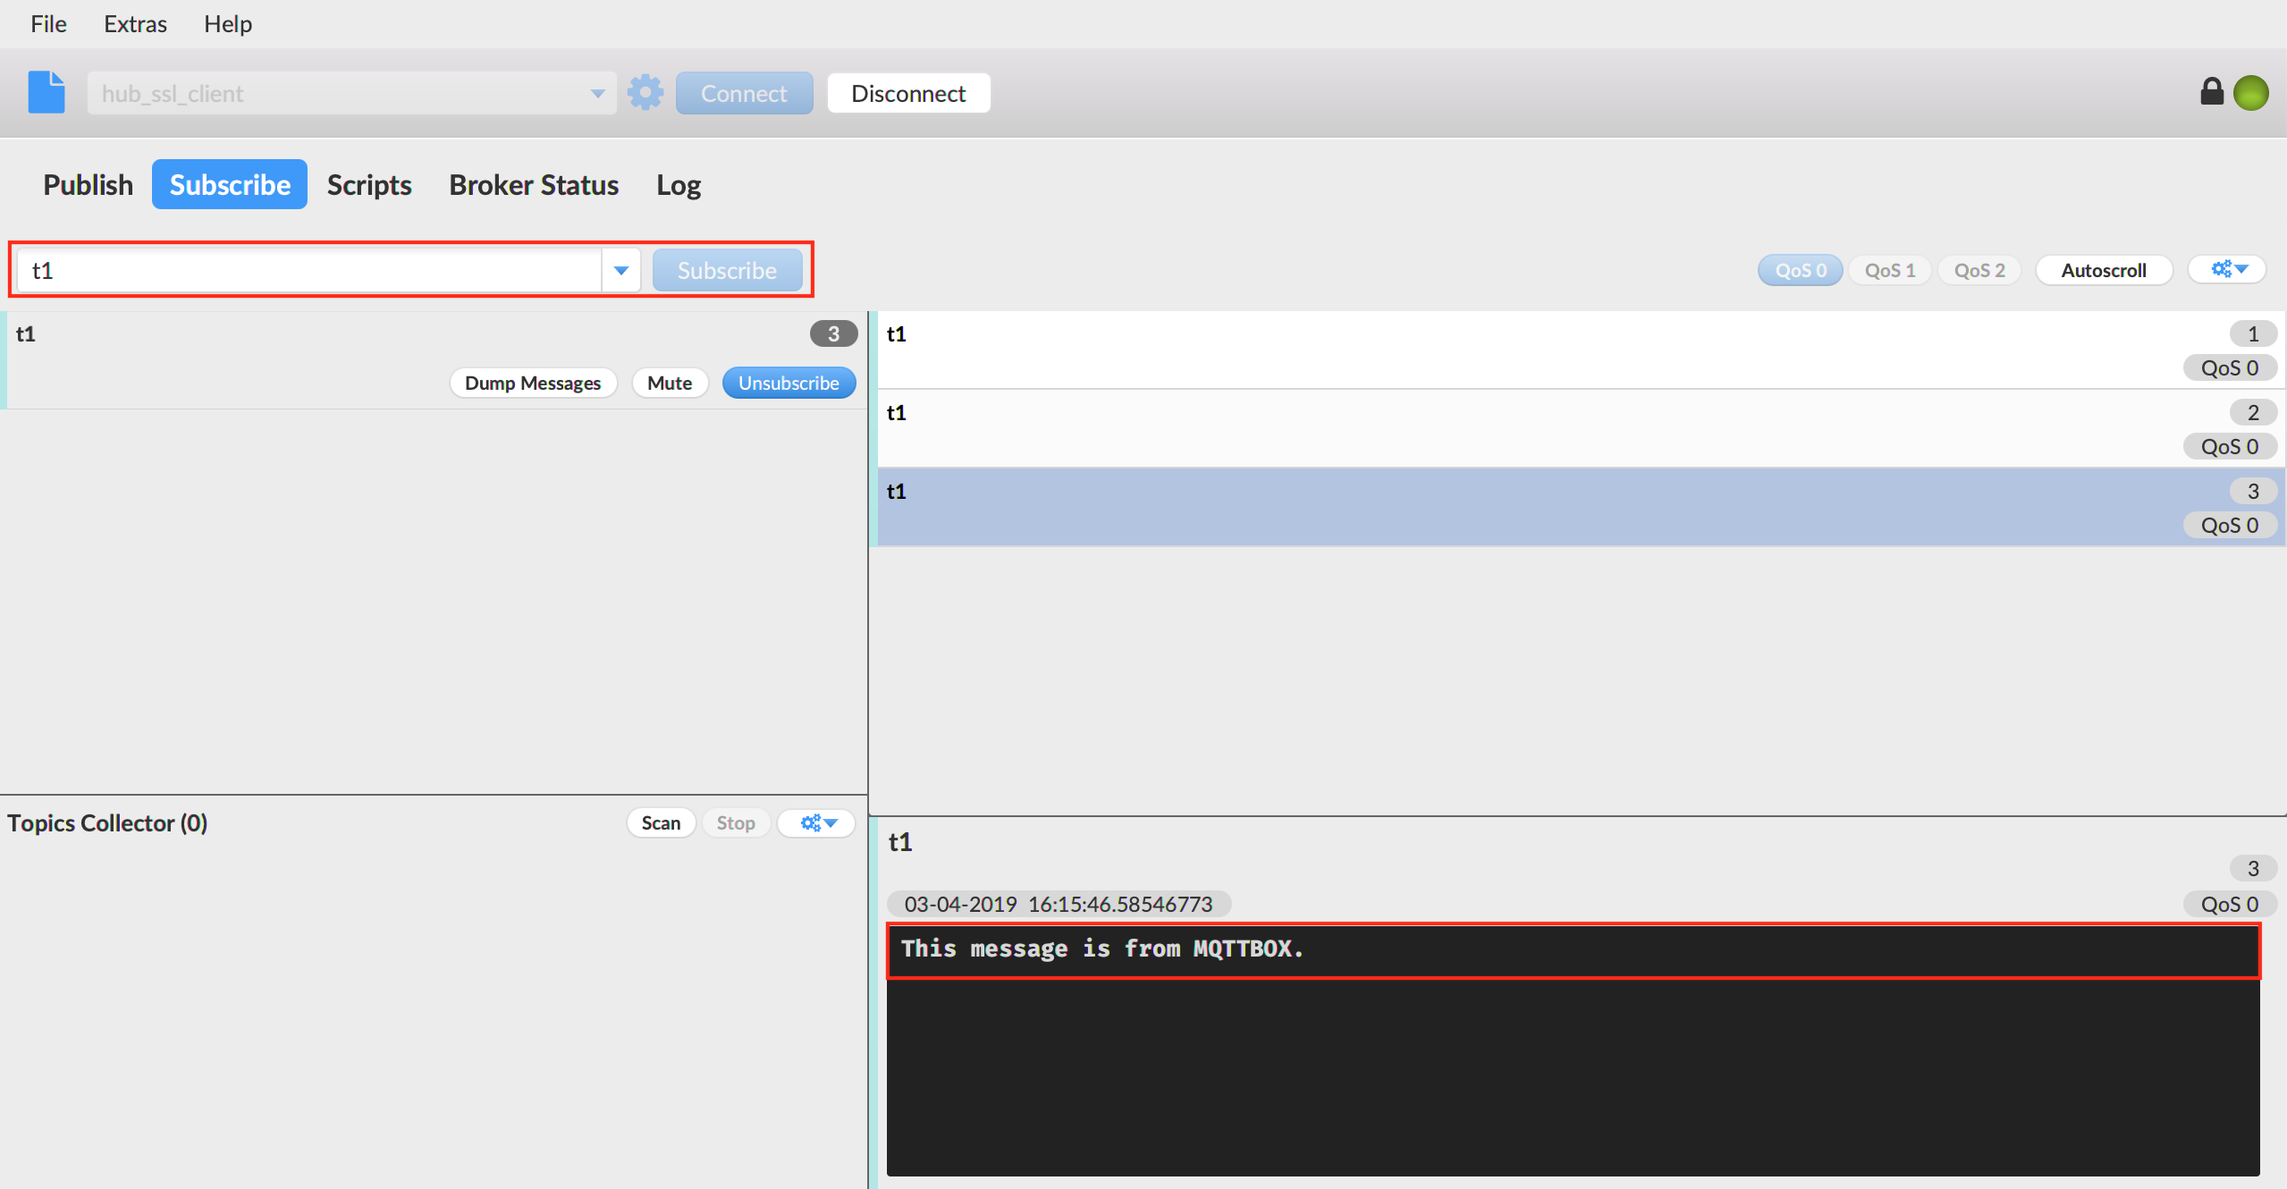
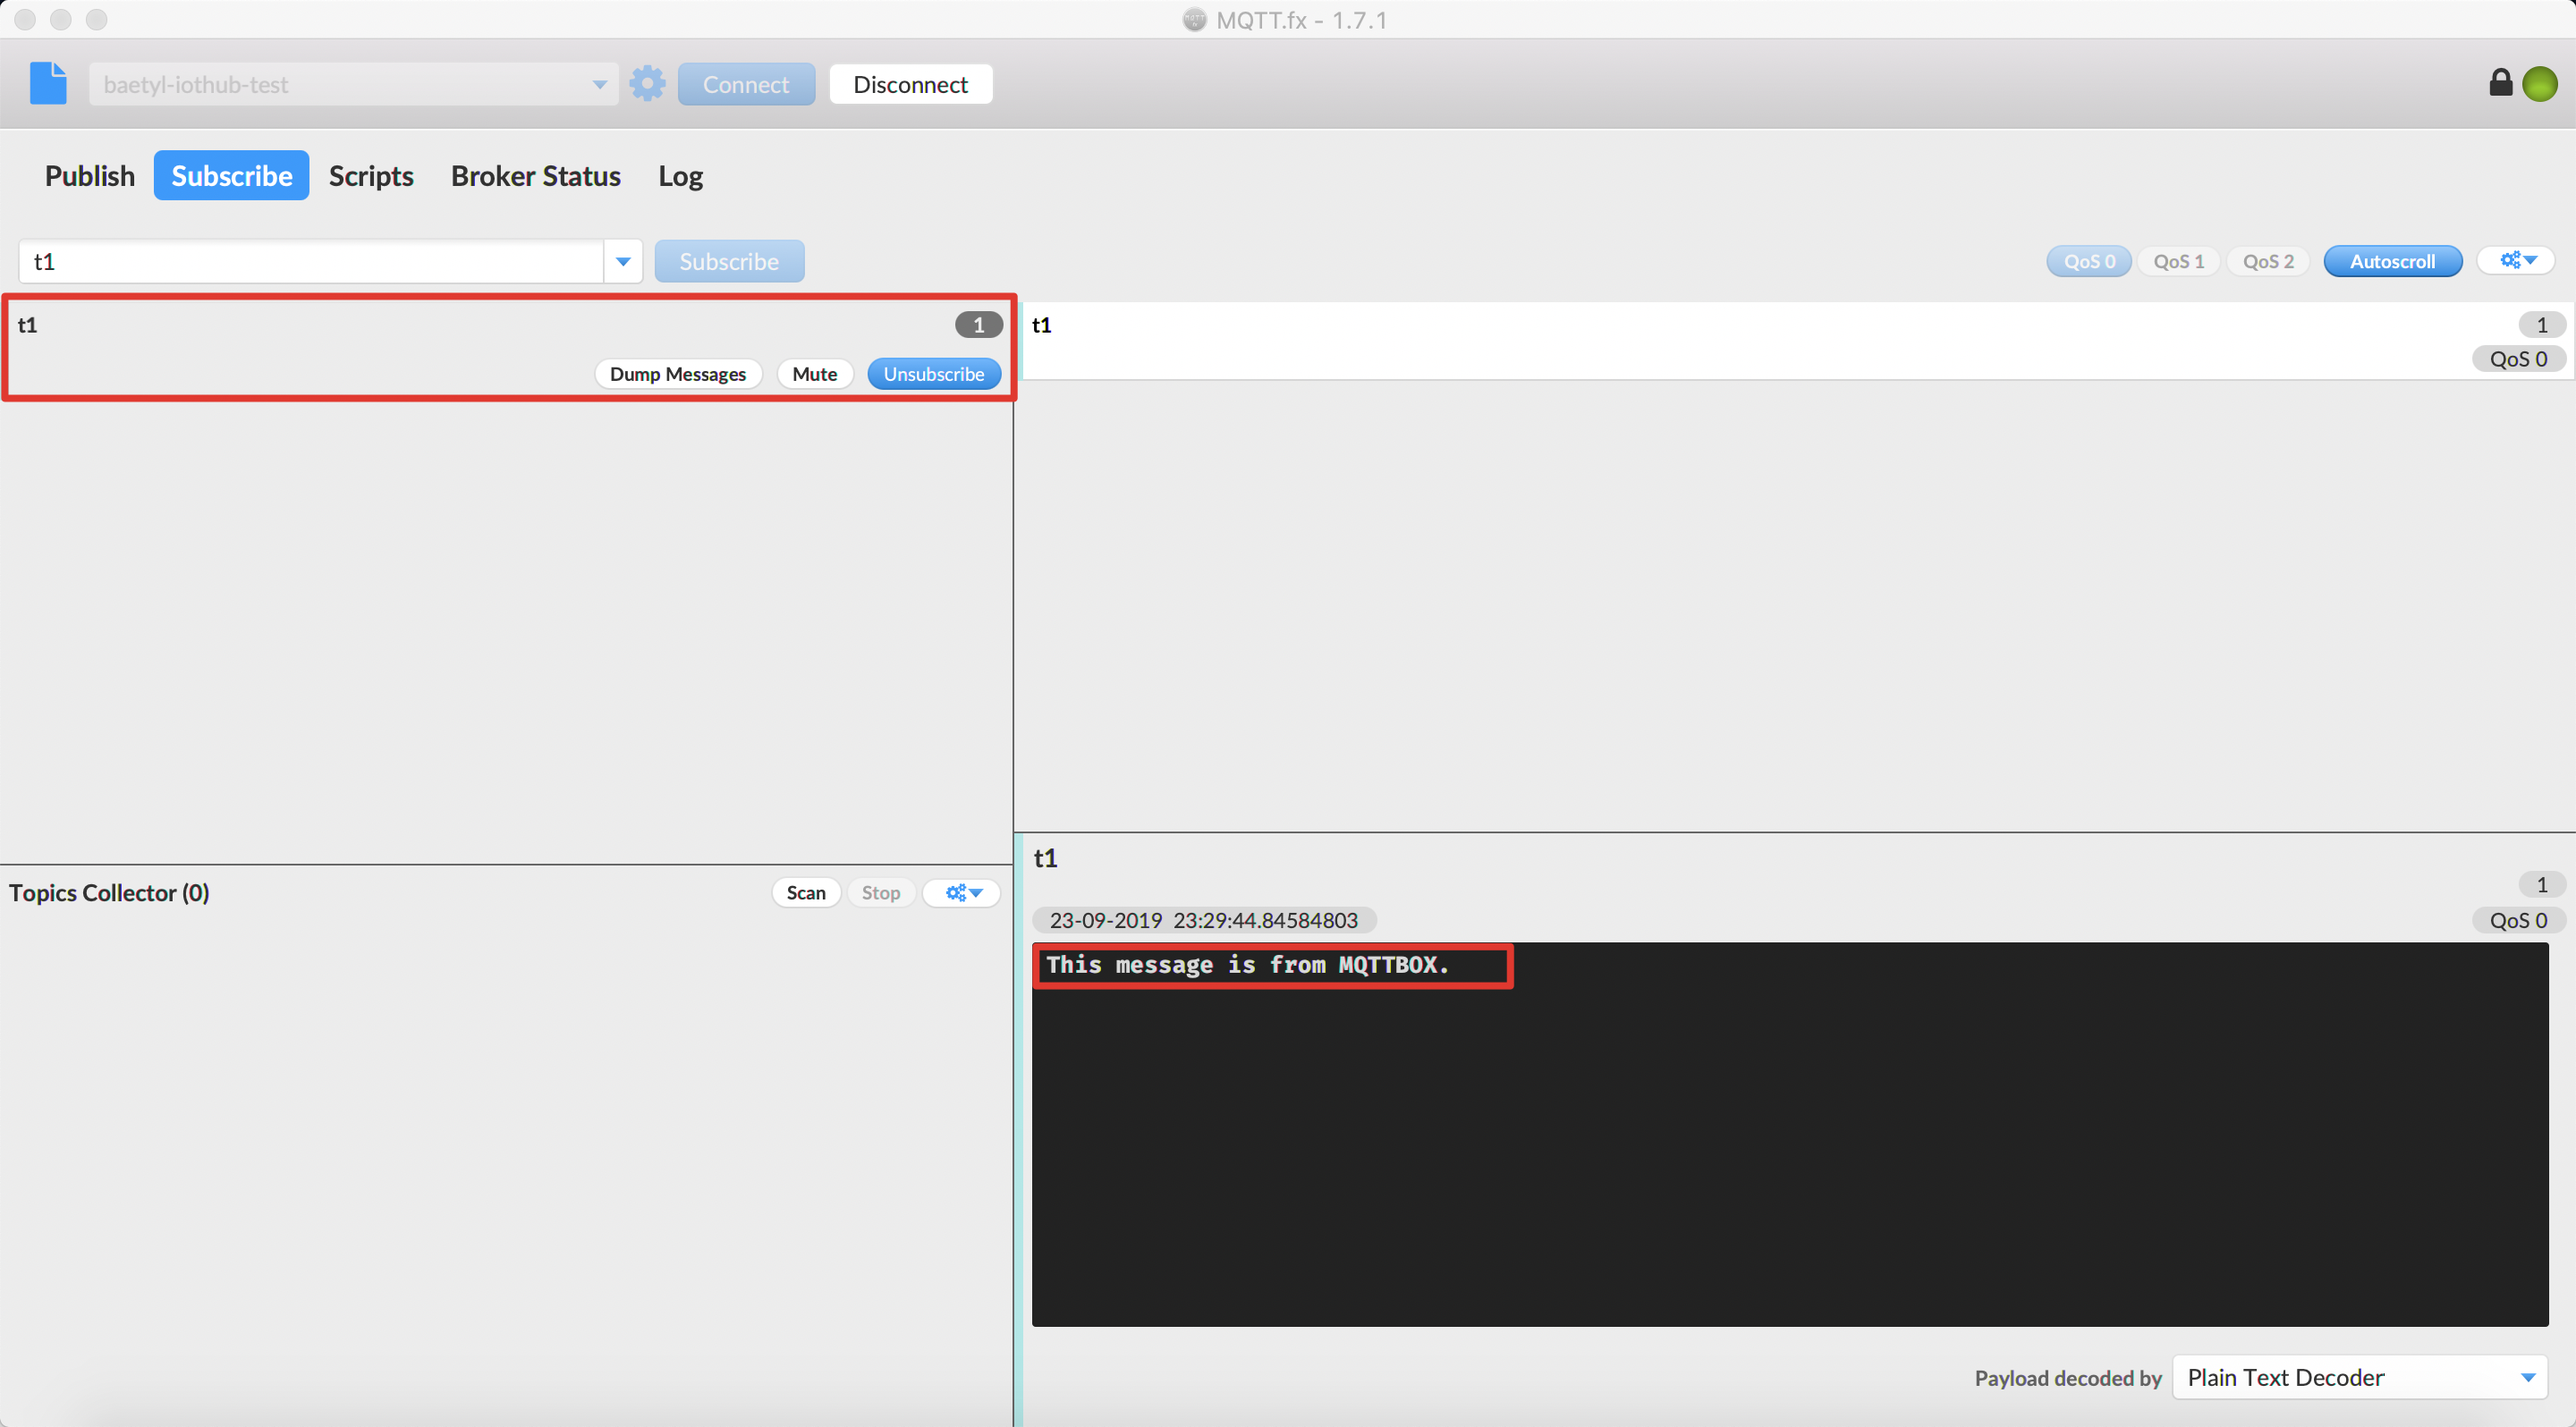
update remote guide document

diff --git a/docs/guides/Message-synchronize-with-iothub-through-remote-module.md b/docs/guides/Message-synchronize-with-iothub-through-remote-module.md
@@ -4,25 +4,24 @@
 
 - 本文测试所用设备系统为 Ubuntu18.04
 - 本文测试前先安装 Baetyl，并导入默认配置包，可参考 [快速安装 Baetyl](../install/Quick-Install.md)
-- 模拟 MQTT Client 行为的客户端为 [MQTTBOX](../Resources.md) 和 [MQTT.fx](../Resources.md)
+- 模拟 MQTT client 向百度云 IoTHub 订阅消息的客户端为 [MQTT.fx](https://docs.baetyl.io/zh_CN/latest/Resources.html#mqtt-fx)
+- 模拟 MQTT client 向本地 Hub 服务发送消息的客户端为 [MQTTBOX](https://docs.baetyl.io/zh_CN/latest/Resources.html#mqttbox)
 - 本文所用的 Hub 模块镜像和 Remote 模块镜像为 Baetyl 云端管理套件中发布的官方镜像：`hub.baidubce.com/baetyl/baetyl-hub:latest`、`hub.baidubce.com/baetyl/baetyl-remote-mqtt:latest`
-- 您也可以通过 Baetyl 源码自行编译所需的 Hub 模块镜像和 Remote 模块镜像，具体请查看 [如何从源码构建镜像](../install/Build-from-Source.md)
-- 远程 Hub 接入平台选用 [Baidu IoT Hub](https://cloud.baidu.com/product/iot.html)
+- 您也可以通过 Baetyl 源码自行编译所需的 Hub 模块镜像和 Remote 模块镜像，具体请查看 [源码编译 Baetyl](../install/Build-from-Source.md)
+- 远程 Hub 接入平台选用 [Baidu IoTHub](https://cloud.baidu.com/product/iot.html)
 
-_**提示**：Darwin 系统可以通过源码安装 Baetyl，可参考 [源码编译 Baetyl](../install/Build-from-Source.md)。_
-
-Remote 远程服务模块是为了满足物联网场景下另外一种用户需求而研发，能够实现本地 Hub 与远程 Hub 服务（如[Baidu IoT Hub](https://cloud.baidu.com/product/iot.html)等）的数据同步。即通过 Remote 远程服务模块我们既可以从远程 Hub 订阅消息到本地 Hub，也可以将本地 Hub 的消息发送给远程 Hub，完整的配置可参考 [Remote 模块配置](./Config-interpretation.md)。
+Remote 远程服务模块是为了满足物联网场景下另外一种用户需求而研发，能够实现本地 Hub 与远程 Hub 服务（如[Baidu IoTHub](https://cloud.baidu.com/product/iot.html)等）的数据同步。即通过 Remote 远程服务模块我们既可以从远程 Hub 订阅消息到本地 Hub，也可以将本地 Hub 的消息发送给远程 Hub，完整的配置可参考 [Remote 模块配置](./Config-interpretation.md)。
 
 ## 操作流程
 
-- Step 1：依据 Baidu IoT Hub 的操作规章，在 Baidu IoT Hub 创建测试所用的 endpoint、user、principal（身份）、policy（主题权限策略）等信息；
-- Step 2：依据步骤 `Step 1` 中创建的连接信息，选择 MQTT.fx 作为测试用 MQTT 客户端，配置相关连接信息，并将之与 Baidu IoT Hub 建立连接，并订阅既定主题；
+- Step 1：依据 Baidu IoTHub 的操作规章，在 Baidu IoTHub 创建测试所用的 endpoint、user、principal（身份）、policy（主题权限策略）等信息；
+- Step 2：依据步骤 `Step 1` 中创建的连接信息，选择 MQTT.fx 作为测试用 MQTT 客户端，配置相关连接信息，并将之与 Baidu IoTHub 建立连接，并订阅既定主题；
   - 若成功建立连接，则继续下一步操作；
-  - 若未成功建立连接，则重复上述步骤，直至看到 MQTT.fx 与 Baidu IoT Hub 成功[建立连接](https://cloud.baidu.com/doc/IOT/GettingStarted.html#.E6.95.B0.E6.8D.AE.E5.9E.8B.E9.A1.B9.E7.9B.AE)。
-- Step 3：打开终端，执行 `sudo systemctl start baetyl` 以容器模式启动 Baetyl 可执行程序，然后执行 `sudo systemctl status baetyl` 来查看 Baetyl 是否正常运行，并观察 Hub 模块、Remote 模块启动状态；
+  - 若未成功建立连接，则重复上述步骤，直至看到 MQTT.fx 与 Baidu IoTHub 成功[建立连接](https://cloud.baidu.com/doc/IOT/s/Sjwvy72aq)。
+- Step 3：打开终端，执行 `sudo systemctl start baetyl` 以容器模式启动 Baetyl 可执行程序（要求 Baetyl 已事先在设备上部署完毕，相关内容可参考 [快速安装 Baetyl](../install/Quick-Install.md)），然后执行 `sudo systemctl status baetyl` 来查看 Baetyl 是否正常运行，并观察 Hub 模块、Remote 模块启动状态；
   - 若 Hub、Remote 模块成功启动，则继续下一步操作；
   - 若 Hub、Remote 模块未成功启动，则重复 `Step 3`，直至看到 Hub、Remote 模块成功启动。
-- Step 4：选择 MQTTBOX 作为测试用 MQTT 客户端，与 Hub 模块[建立连接](./Device-connect-to-hub-module.md)，并订阅既定主题；
+- Step 4：选择 MQTTBOX 作为测试用 MQTT 客户端，与 Hub 模块[建立连接](Device-connect-to-hub-module.md)，并订阅既定主题；
   - 若成功与 Hub 模块建立连接，则继续下一步操作；
   - 若与 Hub 建立连接失败，则重复 `Step 4` 操作，直至 MQTTBOX 与本地 Hub 模块成功建立连接。
 - Step 5：依据 Remote 模块的相关配置信息，从 MQTTBOX 向既定主题发布消息，观察 MQTT.fx 的消息接收情况；同理，从 MQTT.fx 向既定主题发布消息，观察 MQTTBOX 的消息接收情况。
@@ -53,8 +52,6 @@ services:
         path: var/db/baetyl/data
       - name: localhub-log
         path: var/log/baetyl
-      - name: localhub-cert
-        path: var/db/baetyl/cert
    - name: remote-iothub
     image: hub.baidubce.com/baetyl/baetyl-remote-mqtt:latest
     replica: 1
@@ -75,8 +72,6 @@ volumes:
     path: var/db/baetyl/localhub-data
   - name: localhub-log
     path: var/db/baetyl/localhub-log
-  - name: localhub-cert
-    path: var/db/baetyl/localhub-cert-only-for-test
   # remote mqtt
   - name: remote-iothub-conf
     path: var/db/baetyl/remote-iothub-conf
@@ -86,7 +81,24 @@ volumes:
     path: var/db/baetyl/remote-iothub-log
 ```
 
-Remote 模块的配置文件位置 `var/db/baetyl/remote-iothub-conf/application.yml`，配置信息如下：
+Hub 模块的配置文件位于 `var/db/baetyl/localhub-conf/service.yml`，具体配置信息如下：
+```yaml
+listen:
+  - tcp://0.0.0.0:1883
+principals:
+  - username: test
+    password: hahaha
+    permissions:
+      - action: 'pub'
+        permit: ['#']
+      - action: 'sub'
+        permit: ['#']
+logger:
+  path: var/log/baetyl/localhub-service.log
+  level: "debug"
+```
+
+Remote 模块的配置文件位置 `var/db/baetyl/remote-iothub-conf/service.yml`，配置信息如下：
 
 ```yaml
 name: remote-iothub
@@ -96,9 +108,9 @@ hub:
   password: hahaha
 remotes:
   - name: iothub
-    address: 'ssl://h7gvsuh.mqtt.iot.bj.baidubce.com:1884'
-    clientid: 11dd7422353c46fc8851ef8fb7114509
-    username: h7gvsuh/test_edge_client
+    address: 'ssl://xxxxxx.mqtt.iot.bj.baidubce.com:1884'
+    clientid: remote-iothub-1
+    username: xxxxxxx/test
     ca: var/db/baetyl/cert/ca.pem
     cert: var/db/baetyl/cert/client.pem
     key: var/db/baetyl/cert/client.key
@@ -112,11 +124,11 @@ rules:
         - topic: t2
           qos: 1
 logger:
-  path: var/log/baetyl/service.log
+  path: var/log/baetyl/remote-service.log
   level: 'debug'
 ```
 
-依据上述 Remote 模块的配置信息，意即 Remote 模块向本地 Hub 模块订阅主题 `t1` 的消息，向 Baidu IoT Hub 订 阅主题 `t2` 的消息；当 MQTTBOX 向主题 `t1` 发布消息时，Hub 模块接收到主题 `t1` 的消息后，将其转发给 Remote 模块，再由 Remote 模块将之转发给 Baidu IoT Hub，这样如果 MQTT.fx 订阅了主题 `t1`，即会收到该条从 MQTTBOX 发布的消息；同理，当 MQTT.fx 向主题 `t2` 发布消息时，Baidu IoT Hub 会将消息转发给 Remote 模块，由 Remote 模块将之转发给本地 Hub 模块，这样如果 MQTTBOX 订阅了主题 `t2`，即会收到该消息。
+依据上述 Remote 模块的配置信息，意即 Remote 模块向本地 Hub 模块订阅主题 `t1` 的消息，向 Baidu IoTHub 订 阅主题 `t2` 的消息；当 MQTTBOX 向主题 `t1` 发布消息时，Hub 模块接收到主题 `t1` 的消息后，将其转发给 Remote 模块，再由 Remote 模块将之转发给 Baidu IoTHub，这样如果 MQTT.fx 订阅了主题 `t1`，即会收到该条从 MQTTBOX 发布的消息；同理，当 MQTT.fx 向主题 `t2` 发布消息时，Baidu IoTHub 会将消息转发给 Remote 模块，由 Remote 模块将之转发给本地 Hub 模块，这样如果 MQTTBOX 订阅了主题 `t2`，即会收到该消息。
 
 简单来说，由 MQTT.fx 发布的消息，到 MQTTBOX 接收到该消息，流经的路径信息为：
 
@@ -126,35 +138,23 @@ logger:
 
 > **MQTTBOX -> Local Hub Module -> Remote Module -> Remote Hub -> MQTT.fx**
 
-### 通过 MQTT.fx 与 Baidu IoT Hub 建立连接
+### 通过 MQTT.fx 与 Baidu IoTHub 建立连接
 
-如 `Step 1, Step 2` 所述，通过 MQTT.fx 与 Baidu IoT Hub 建立连接，涉及的通过云端 Baidu IoT Hub 场景的 `endpoint` 等相关信息，及 MQTT.fx 连接配置信息分别如下图示。
+如 `Step 1, Step 2` 所述，通过 MQTT.fx 与 Baidu IoTHub 建立连接，涉及的通过云端 Baidu IoTHub 场景的 `endpoint` 等相关信息，及 MQTT.fx 连接配置信息分别如下图示。
 
-![基于 Baidu IoT Hub 创建的 endpoint](../images/guides/remote/cloud-iothub-config.png)
+![基于 Baidu IoTHub 创建的 endpoint](../images/guides/remote/cloud-iothub-config.png)
 
-![基于 Baidu IoT Hub 创建的 endpoint 下属设备信息](../images/guides/remote/cloud-iothub-user-config.png)
+![用于连接 Baidu IoTHub 的 MQTT.fx 配置信息](../images/guides/remote/mqttfx-connect-hub-config.png)
 
-![用于连接 Baidu IoT Hub 的 MQTT.fx 配置信息](../images/guides/remote/mqttfx-connect-hub-config1.png)
+完成连接信息的相关配置工作后，点击 `OK` 或 `Apply` 按钮使配置信息生效，然后在 MQTT.fx 连接操作页面点击 `Connect` 按钮，通过按钮的 **颜色** （成功建立连接后，右上方指示灯变为 **绿色**）即可判断 MQTT.fx 是否已与 Baidu IoTHub 建立连接，在建立连接后，切换至 `Subscribe` 页面，依据既定配置，订阅相应主题 `t1`，相关示意图如下图示。
 
-![用于连接 Baidu IoT Hub 的 MQTT.fx 配置信息](../images/guides/remote/mqttfx-connect-hub-config2.png)
-
-完成连接信息的相关配置工作后，点击 `OK` 或 `Apply` 按钮使配置信息生效，然后在 MQTT.fx 连接操作页面点击 `Connect` 按钮，通过按钮的 **颜色** （成功建立连接后，右上方指示灯变为 **绿色**）即可判断 MQTT.fx 是否已与 Baidu IoT Hub 建立连接，成功建立连接的状态如下图示。
-
-![MQTT.fx 成功与 Baidu IoT Hub 建立连接](../images/guides/remote/mqttfx-connect-success.png)
-
-在建立连接后，切换至 `Subscribe` 页面，依据既定配置，订阅相应主题 `t1`，成功订阅的状态如下图示。
-
-![MQTT.fx 成功订阅主题 t1](../images/guides/remote/mqttfx-sub-t1-success.png)
+![MQTT.fx 成功与 Baidu IoTHub 建立连接](../images/guides/remote/mqttfx-connect-success.png)
 
 ### 通过 MQTTBOX 与本地 Hub 模块建立连接
 
 依据步骤 `Step 3` 所述，调整 Baetyl 主程序启动加载配置项，执行 `sudo systemctl start baetyl` 以容器模式启动 Baetyl，这里，要求 Baetyl 启动后加载 Hub、Remote 模块，执行 `sudo systemctl status baetyl` 来查看 `baetyl` 是否正常运行，成功加载的状态如下图示。
 
 ![Baetyl 状态](../images/install/systemctl-status.png)
-
-_**提示**：Darwin 系统通过源码安装 Baetyl，可执行 `sudo baetyl start` 以容器模式启动 Baetyl。_
-
-![Baetyl 成功加载 Hub、Remote](../images/guides/remote/remote-start.png)
 
 此外，亦可通过执行命令 `docker stats` 查看系统当前正在运行的 docker 容器列表，具体如下图示。
 
